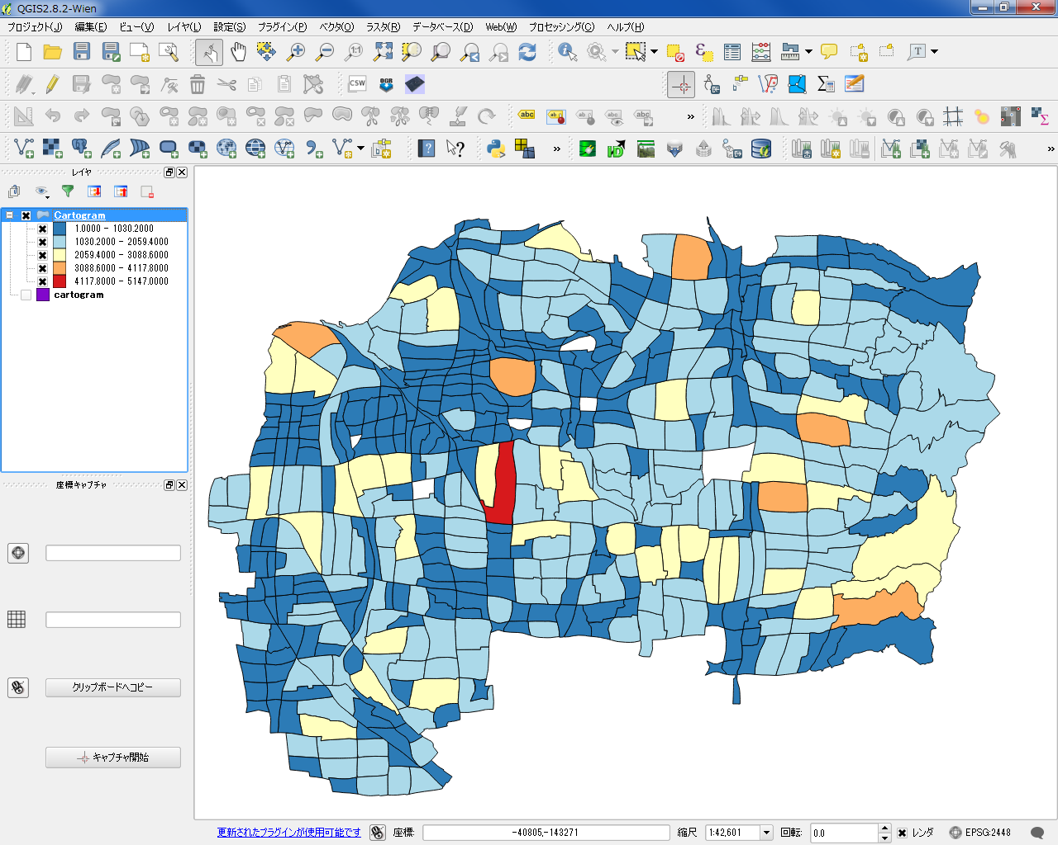
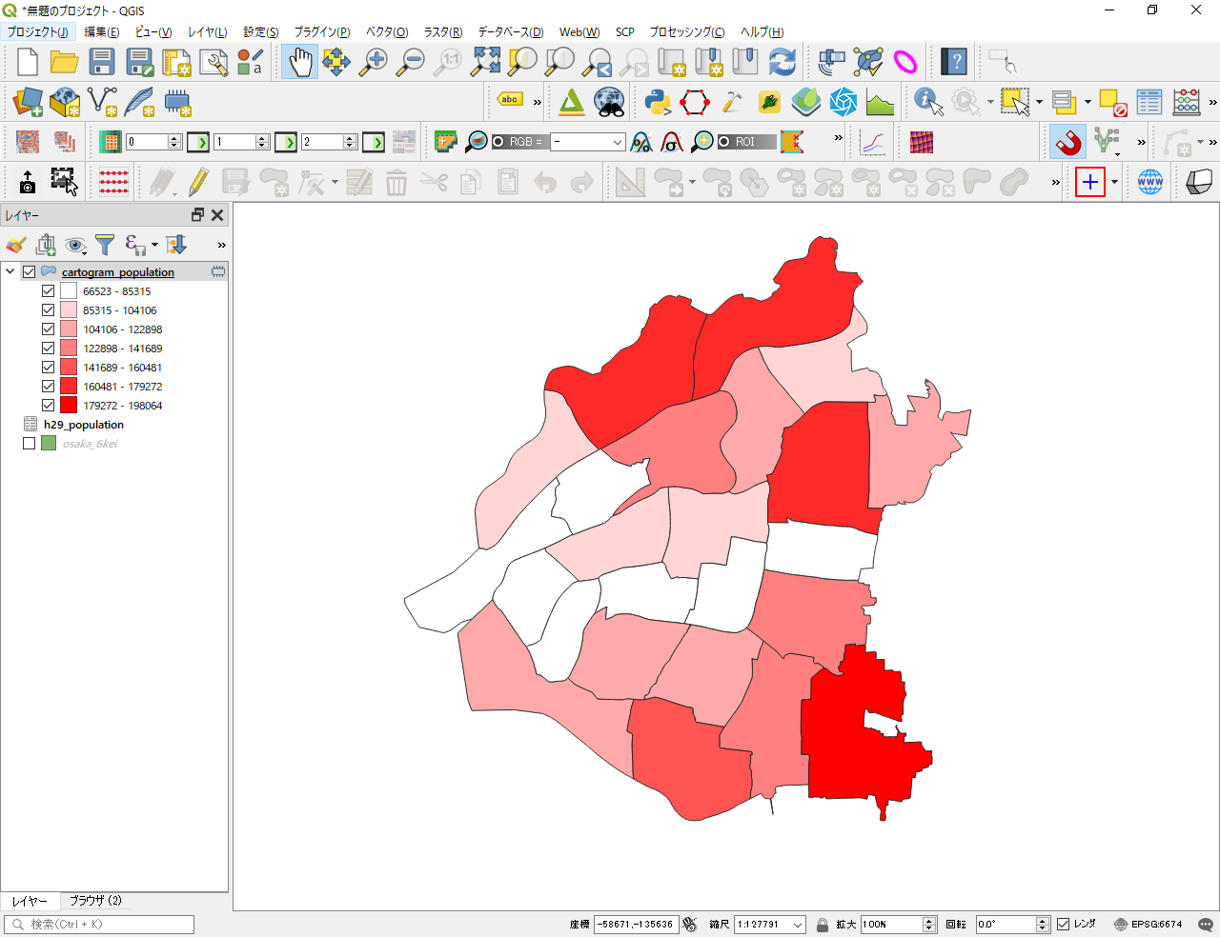
update

diff --git a/materials/tasks/t_13.md b/materials/tasks/t_13.md
@@ -1,70 +1,42 @@
 # 課題:領域分析
-　この実習は、ポイントデータから領域を作成する手法として、バッファとボロノイ分割を行うものです。バッファは、地物からの距離に応じて一定の領域を作成する手法です。ボロノイ分割は、複数ある地物の位置関係（最近隣勢力圏）に応じて領域を作成する手法です。これらの詳しい解説は、[地理情報科学教育用スライド（GIScスライド）]の4章を参照してください。
-
-　以下の手順とGISオープン教材の[領域分析]の教材を参考に、完成例のような地図が作成できれば、完了となります。実習で利用するデータの一部は、[既存データの地図データと属性データ]の教材を参考にダウンロードしてください。GIS初学者は、本教材を進める前に[GISの基本概念]の教材を確認しておいてください。
+　この実習は、ポイントデータから領域を作成する手法として、バッファとボロノイ分割を行うものです。バッファは、地物からの距離に応じて一定の領域を作成する手法です。ボロノイ分割は、複数ある地物の位置関係（最近隣勢力圏）に応じて領域を作成する手法です。これらの詳しい解説は、[地理情報科学教育用スライド（GIScスライド）]の4章を参照してください。以下の手順とGISオープン教材の[領域分析]の教材を参考に、完成例のような地図が作成できれば、完了となります。GIS初学者は、本教材を進める前に[GISの基本概念]の教材を確認しておいてください。
 
 ### 実習用データ
-　実習をはじめる前に、以下のデータをダウンロードしてください。なお、すべてのデータをJGD2000の平面直角座標系に統一して下さい国土数値情報のデータはダウンロード後に「JGD2000の平面直角座標系」へ座標変換する。国土数値情報データの読み込み時に空間参照設定のウィンドウが表示されたら、JGD2000を選択した後（QGIS2.8.4の場合）に変換の処理を行ってください。
+　実習をはじめる前に、[osaka]をダウンロードしてください。
 
-* 国土交通省国土政策局「[国土数値情報]（愛知県　行政区域、郵便局、小学校、小学校区、学校、文化施設データ　全国　鉄道線、鉄道駅、空港データ）
-
->ダウンロード手法は、[既存データの地図データと属性データ]の教材を参考とする。座標系の変換手法は[空間データ]の教材を参考とする。名古屋市内のポリゴンは、愛知県のポリゴンから名古屋市を選択した状態（選択ツール）で、名前を付けて保存を実行する（この際に選択地物のみ...にチェックをつける）。その他のレイヤは、[基本的な空間解析]の教材を参考に用意する。
+[osaka]:https://github.com/gis-oer/datasets/raw/master/osaka.zip
 
 **Menu**
 --------
-- [課題1 バッファの作成](#バッファの作成)
-- [課題2 ボロノイ分割図](#ボロノイ分割図)
+- [課題1_バッファの作成](#課題1_バッファの作成)
+- [課題2_ボロノイ分割図](#課題2_ボロノイ分割図)
 
 
 -----------------
 
-## 課題１
-### <a name="バッファの作成"></a>バッファの作成
-　以下の手順と[領域分析]の教材を参考に、[国土数値情報]からダウンロードした学校データを用いて、100mの[バッファ](https://www.pasco.co.jp/recommend/cook/cook062/)を作成し、以下の設問に回答してください。
-
-**設問**
-
-愛知県にあるすべての学校から100m圏内に含まれる文化施設の件数を回答してください。
-
-### 完成例
-![バッファ](pic/13-1.png)
+## 課題１_バッファの作成
+　大阪市およびその周辺の河川（`river.shp`）と学校（`school.shp`）を用いて、河川(`river.shp`)から200m圏内に含まれる学校（`school.shp`）の件数を回答してください。
 
 ### 手順
-
 1. ダウンロードしたデータをQGISで読み込む。
-
-2. ベクタ＞空間演算ツール＞バッファから100mのバッファを作成する。
-
-
-3. 空間クエリプラグインで、バッファ内の文化施設の数を計測する。
-
-4. 地図をレイアウトしする。
-
-
------------------
-
+2. `ベクタ＞空間演算ツール＞バッファ`から200mのバッファを作成する。
+3. `ベクタ＞調査ツール＞場所による選択`で空間検索を実行し、属性テーブルからバッファ内の保育施設の数を計測する。
 
 ## 課題２
 ### ボロノイ分割図
-　以下の手順と[領域分析]の教材を参考に、[国土数値情報]からダウンロードした名古屋市内の小学校と小学校区のデータを用いて、ボロノイ図を作成してください。ボロノイ図を作成後、小学校区とボロノイ図を比較し、300字程度でまとめて下さい。
-
-### 完成例
-![準備中](pic/13-3.png)
+　`school.shp`から、小学校のみを抽出した後、小学校と保育施設（`kindergarten.shp`）のデータを用いて、ボロノイ図を作成してください。
 
 ### 手順
 
-1. ダウンロードしたデータをQGISで読み込む。
-
-2. ベクタ＞ジオメトリツール＞ボロノイポリゴンから、ボロノイポリゴンを生成する。
-
-3. ボロノイ図を作成する。
-
-4. 小学校区とボロノイ図の比較を行う。
+1. [基本的な空間解析]の教材を参考に、属性テーブルから小学校を選択し、新規に出力する。
+2. `ベクタ＞ジオメトリツール＞ボロノイポリゴン`から、ボロノイポリゴンを生成する。
+3. 地図をレイアウトし、保育施設と小学校の領域の違いを比較する。
 
 ---
 
 #### 完成例で使用したデータ
 本ページで使用しているデータの出典については、該当する教材よりご確認ください。
+
 [利用規約]:../../../policy.md
 [その他のライセンスについて]:../../license.md
 [よくある質問とエラー]:../../questions/questions.md

diff --git a/materials/tasks/t_21.md b/materials/tasks/t_21.md
@@ -1,8 +1,10 @@
 # 課題:視覚的伝達
-　この実習は、値の分類や視覚化に関するものです。以下の手順とGISオープン教材の[領域分析]の教材を参考に、完成例のような地図が作成できれば、実習完了となります。実習で利用するデータの一部は、[既存データの地図データと属性データ]の教材を参考にダウンロードしてください。GIS初学者は、本教材を進める前に[GISの基本概念]の教材を確認しておいてください。
+　この実習は、値の分類や視覚化に関するものです。以下の手順とGISオープン教材の[領域分析]の教材を参考に、完成例のような地図が作成できれば、実習完了となります。GIS初学者は、本教材を進める前に[GISの基本概念]の教材を確認しておいてください。
 
 ### 実習用データ
-　実習をはじめる前に、[政府統計局e-stat]から、任意の地域の境界（世界測地系の平面直角座標系のもの）データをダウンロードしてください。
+　実習をはじめる前に、[osaka]をダウンロードしてください。
+
+[osaka]:https://github.com/gis-oer/datasets/raw/master/osaka.zip
 
 **Menu**
 --------
@@ -11,34 +13,33 @@
 -----------------
 
 ## 課題1_属性データの分類
-　[e-Stat]から、ダウンロードした境界データ（行政界のデータ）を利用し、人口密度の分布図を作成してください。作成する地図は、データに対して適切な分類が行われているものとします。
+　`osaka_6kei.shp`と、`h29_population.csv`を結合したデータを用いて、区ごとの65歳以上の人口の割合を示す地図を作成してください。作成する地図は、データに対して適切な表現が行われているものとします。
 
 ### 手順
-1. QGISでe-statのデータを読み込み、属性テーブルから人口密度を計算する。
-2. プロパティを開き、値を分類する。
-3. プリントコンポーザーを開き、地図をレイアウトする。
+1. QGISで`osaka_6kei.shp`と、`h29_population.csv`を読み込みテーブル結合する。
+2. 人口総数（All）と高齢者人口(65-)の値を数値型に再計算する。
+3. 属性テーブルで高齢者人口の割合を計算した後、シンボルを調整する。
+4. プリントコンポーザーを開き、地図をレイアウトする。
 
 -----------------
 
 ## 課題2_カルトグラム  
-　政府統計の総合窓口(e-Stat)から、ダウンロードした境界データ（行政界のデータ）を用いて、人口のカルトグラム(統計データに基づいて面積や距離を変形させた地図)を作成してください。
+　課題1で作成したデータを用いて、区ごとの人口総数のカルトグラム(統計データに基づいて面積や距離を変形させた地図)を作成してください。
 
 ### 完成例
 ![kadai](pic/t21-1.png)
 
 ### 手順
-1. [e-stat]のページから、「平成22年国勢調査（小地域）」を選択し（統計表は任意で指定する）、市区町村の境界データ（世界測地系平面直角座標系・Shape形式）をダウンロードする。
-2. QGISでレイヤをデータを読み込み、画面左側に表示されるレイヤの一覧から対象のデータの上で右クリックし属性テーブルを開く。属性テーブルにJINKOの項目があるかを確認する。JINKOの値に0があると計算できないため、対象のテーブルを削除するか、値を1とする。
-3. QGISの「プラグインの管理とインストール」から「Cartogram」プラグインをインストールする。
-4. Cartogramプラグインを起動し、JINKOの値を用いてカルトグラムを作成する。
-5. レイヤのプロパティを開き値を色分けする（人口ごとに色分けする/正確に分類する場合は、分類数の設定にはスタージェスの公式等を用いると良い）。
-6. 地図をレイアウトする。
+1. QGISでデータを表示し、`ベクタ＞Cartogram`プラグインを起動し、数値型に再計算した人口総数の値を指定し、人口に応じた面積変形地図を作成する。
+2. レイヤのプロパティを開き値を色分けする。
+3. 地図をレイアウトする。
 
 -----------------
 
 
 #### 完成例で使用したデータ
 本ページで使用しているデータの出典については、該当する教材よりご確認ください。
+
 [利用規約]:../../../policy.md
 [その他のライセンスについて]:../../license.md
 [よくある質問とエラー]:../../questions/questions.md

diff --git a/materials/tasks/t_15.md b/materials/tasks/t_15.md
@@ -1,13 +1,13 @@
 # 課題：ラスタデータの分析
 　この実習では、ラスタデータを用いた地形情報の可視化や分析を行います。ラスターデータはベクトルデータと異なり、ピクセルごとに入力された値が分析に用いられます。実習で使われる用語や概念は、地理情報科学教育用スライド（GIScスライド）の4章を参照してください。
 
-　手順とGISオープン教材の[ラスタデータの分析]の教材を参考に、完成例のような地図が作成できれば、完了となります。実習で利用するデータの一部は、[既存データの地図データと属性データ]の教材を参考にダウンロードしてください。GIS初学者は、本教材を進める前に[GISの基本概念]の教材を確認しておいてください。
+　手順とGISオープン教材の[ラスタデータの分析]の教材を参考に、完成例のような地図が作成できれば、完了となります。GIS初学者は、本教材を進める前に[GISの基本概念]の教材を確認しておいてください。
 
 ### 実習用データ
 
 [Fuji_task]
 
-[Fuji_task]:h
+[Fuji_task]:https://github.com/gis-oer/datasets/raw/master/tasks/fuji_task.zip
 
 **Menu**
 --------
